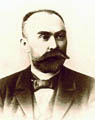
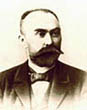
Enhance sno quotations section
* Adjust image dimensions

diff --git a/media/css/custom.scss b/media/css/custom.scss
@@ -574,3 +574,12 @@ summary {
   cursor: pointer;
   display: inline;
 }
+
+#sno-quotations {
+  border: 0;
+  border-spacing: 5px;
+
+  td:first-child {
+    width: 87px;
+  }
+}

diff --git a/content/science/student_science_organization.md b/content/science/student_science_organization.md
@@ -10,7 +10,7 @@ type: tag_by_slug_sidebar
 
 Значение науки в нашей жизни переоценить сложно. И подтверждение тому высказывания многих выдающихся людей:
 
-<table style="border: 0">
+<table id="sno-quotations">
   <tr>
     <td>
       <img src="/img/sno/feerbah.jpg">
@@ -22,7 +22,7 @@ type: tag_by_slug_sidebar
   </tr>
   <tr>
     <td>
-      <img src="/img/sno/kurchatov.jpg" width="87">
+      <img src="/img/sno/kurchatov.jpg">
     </td>
     <td valign="top" style="font-size: 16px">
       Жизнь человека не вечна, но наука и знания переступают пороги столетий. <br>
@@ -40,7 +40,7 @@ type: tag_by_slug_sidebar
   </tr>
   <tr>
     <td>
-      <img src="/img/sno/marx.jpg" width="87">
+      <img src="/img/sno/marx.jpg">
     </td>
     <td valign="top" style="font-size: 16px">
       В науке нет широкой столбовой дороги, и только тот может достигнуть ее сияющих вершин, кто, не страшась усталости, карабкается по ее каменистым тропам.<br>
@@ -49,7 +49,7 @@ type: tag_by_slug_sidebar
   </tr>
   <tr>
     <td>
-      <img src="/img/sno/kuri.jpg" style="padding-right: 5px; margin-bottom: 5px" width="87">
+      <img src="/img/sno/kuri.jpg">
     </td>
     <td valign="top" style="font-size: 16px">
       Наука является основой всякого прогресса, облегчающего жизнь человечества и уменьшающего его страдания.<br>
@@ -58,7 +58,7 @@ type: tag_by_slug_sidebar
   </tr>
   <tr>
     <td>
-      <img src="/img/sno/marx.jpg" width="87">
+      <img src="/img/sno/marx.jpg">
     </td>
     <td valign="top" style="font-size: 16px">
       Всякое начало трудно, – эта истина справедлива для каждой науки.<br>
@@ -67,7 +67,7 @@ type: tag_by_slug_sidebar
   </tr>
   <tr>
     <td>
-      <img src="/img/sno/Plekhanov.jpg" width="87">
+      <img src="/img/sno/Plekhanov.jpg">
     </td>
     <td valign="top" style="font-size: 16px">
       Между наукой и жизнью существует теснейшая, неразрывная, ни для одной из них нимало не унизительная связь: чем более наука служит жизни, тем более жизнь обогащает науку.<br>
@@ -76,7 +76,7 @@ type: tag_by_slug_sidebar
   </tr>
   <tr>
     <td>
-      <img src="/img/sno/einshtein.jpg" width="87">
+      <img src="/img/sno/einshtein.jpg">
     </td>
     <td valign="top" style="font-size: 16px">
       Все идеи в науке родились в драматическом конфликте между реальностью и нашими попытками ее понять. <br>
@@ -85,7 +85,7 @@ type: tag_by_slug_sidebar
   </tr>
   <tr>
     <td>
-      <img src="/img/sno/paster.jpg" width="87">
+      <img src="/img/sno/paster.jpg">
     </td>
     <td valign="top" style="font-size: 16px">
       Открытия приходят лишь к тем, кто подготовлен к их пониманию. <br>
